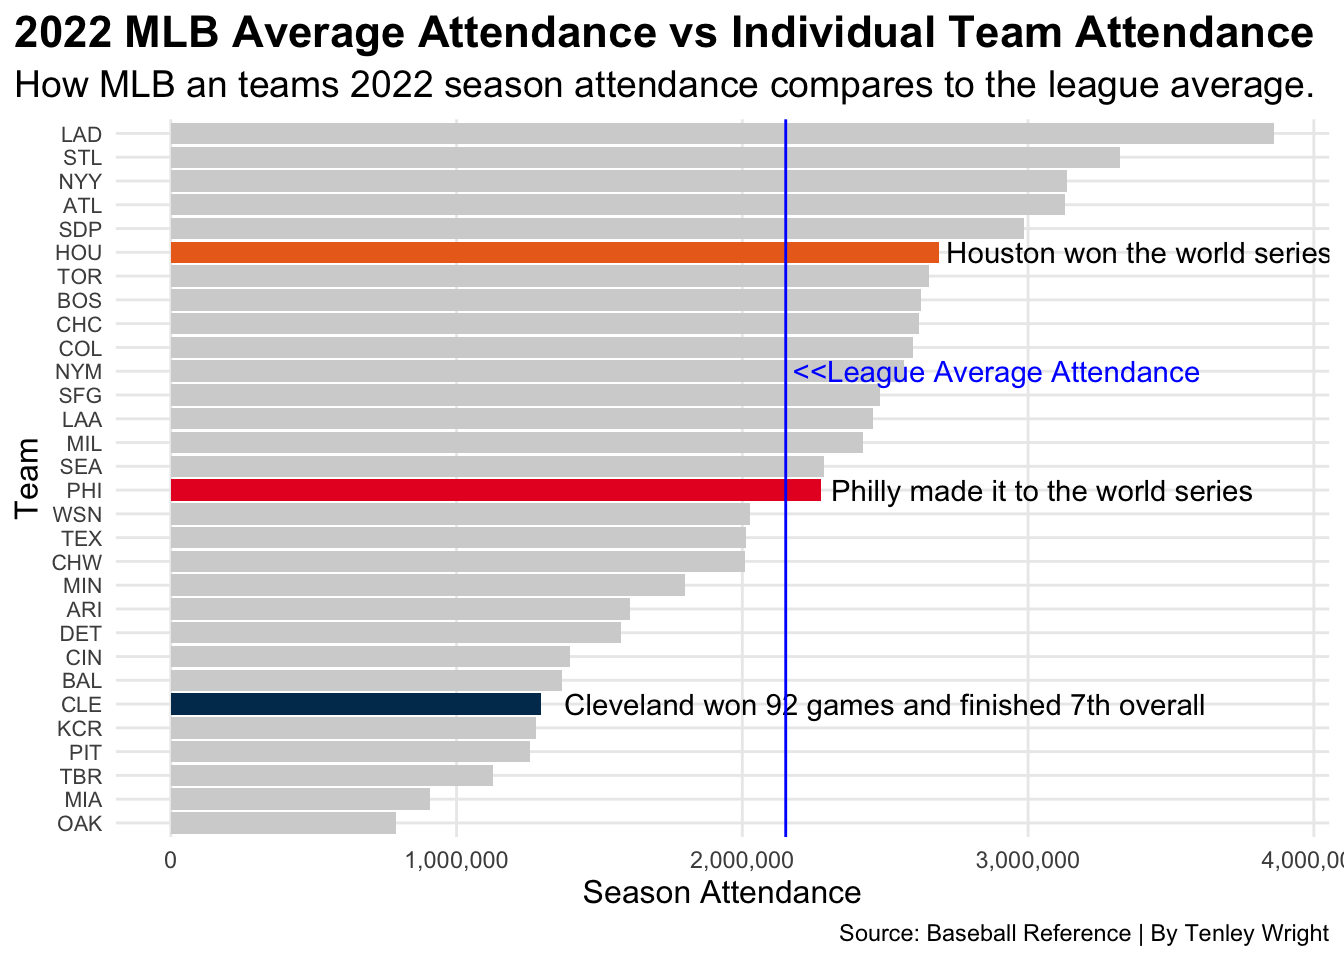
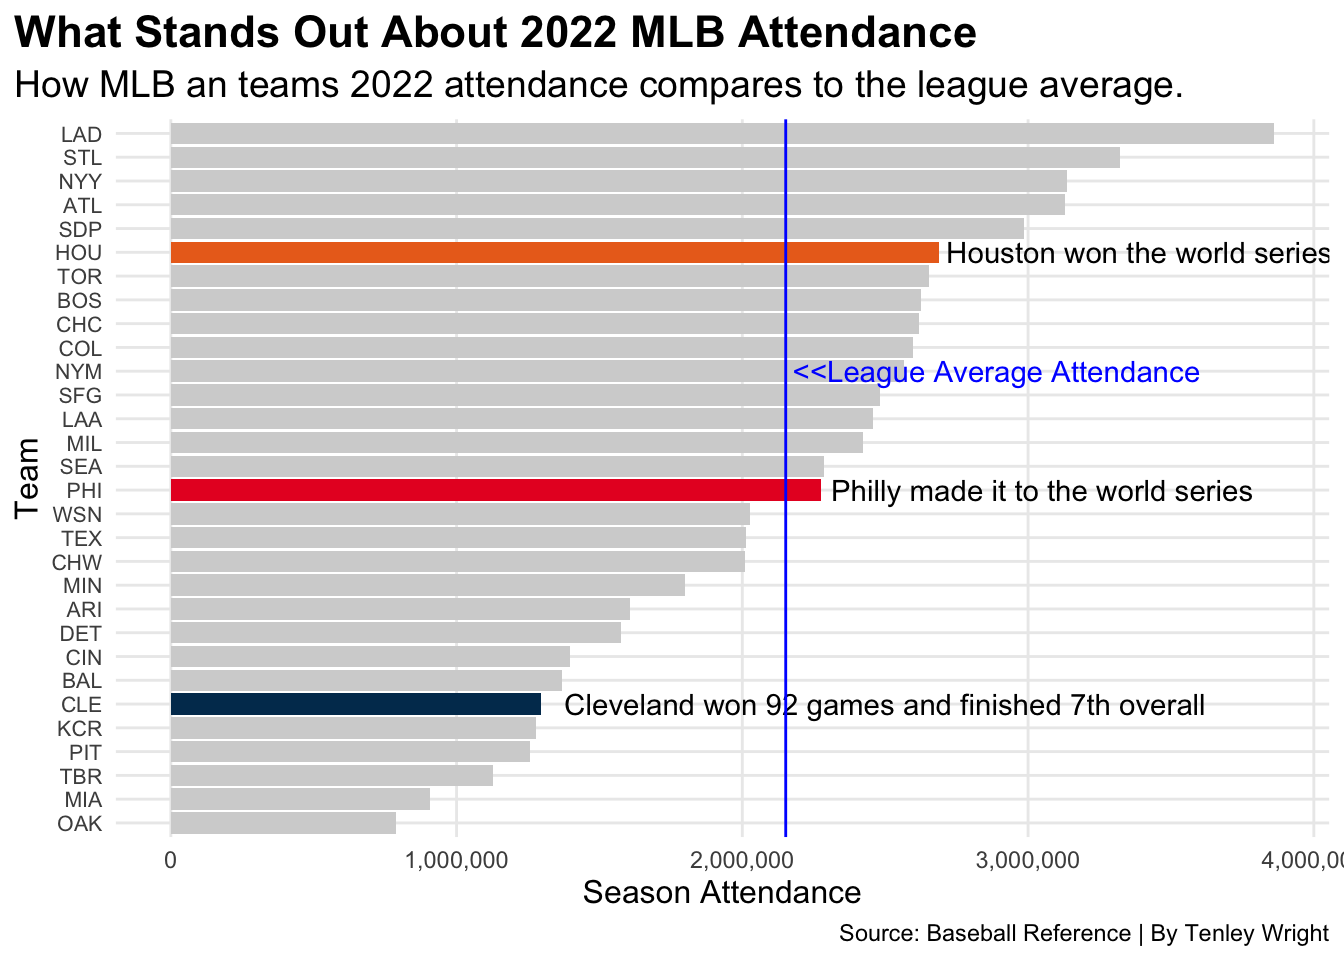
i second guessed myself and ended up being right
but now ive done hours of useless work and had to redo it so here we hare

Changed region(s): [[0.0, 0.0, 1.0, 0.125]]

diff --git a/posts/does-attendance-impact-performace-in-the-mlb/index.html b/posts/does-attendance-impact-performace-in-the-mlb/index.html
@@ -9,7 +9,7 @@
 <meta name="author" content="Tenley Wright">
 <meta name="dcterms.date" content="2023-04-16">
 
-<title>Tenley Wright’s Blog - Does Attendance Impact Team Performance in the MLB?</title>
+<title>Tenley Wright’s Blog - Is There a Relationship Between Attendance and Team Performance in the MLB?</title>
 <style>
 code{white-space: pre-wrap;}
 span.smallcaps{font-variant: small-caps;}
@@ -173,7 +173,7 @@ code span.wa { color: #60a0b0; font-weight: bold; font-style: italic; } /* Warni
 <header id="title-block-header" class="quarto-title-block default page-columns page-full">
   <div class="quarto-title-banner page-columns page-full">
     <div class="quarto-title column-body">
-      <h1 class="title">Does Attendance Impact Team Performance in the MLB?</h1>
+      <h1 class="title">Is There a Relationship Between Attendance and Team Performance in the MLB?</h1>
                                 <div class="quarto-categories">
                 <div class="quarto-category">Baseball</div>
                 <div class="quarto-category">Code</div>
@@ -218,7 +218,7 @@ code span.wa { color: #60a0b0; font-weight: bold; font-style: italic; } /* Warni
 <p><em>And then, finally, there’s the Oakland Athletics.</em></p>
 <p>Moneyball is one of my favorite movies, and one of the themes it explores is the key components to drawing fans to games, and how to keep them coming back for more. It’s been over twenty years since Billy Beane and his front office staff tried to dig their way out of the issues in Oakland and yet somehow, after all these years, the A’s still remain underneath that same 50 feet of crap.</p>
 <p>If you want to make a case for the A’s you could argue that perhaps it’s the fact that their comically oversized coliseum sits in one of the largest metropolitan areas in the country, yet one that is home to two baseball teams, making it the lowest population supporting two teams. However, even if you split the entire Bay Area into two halves, you still end up with a larger market than Pittsburgh, Tampa and KC.</p>
-<p>So, is there a connection between ballpark attendance and a team’s performance? Does a winning team draw larger crowds? Can a packed house fuel a successful season? To answer that, we’ll first need to explore how each team compares to the league average attendance, as well as each other.</p>
+<p>So, is there a connection between ballpark attendance and a team’s performance? To answer that, we’ll first need to explore how each team compares to the league average attendance, as well as each other.</p>
 <div class="cell">
 <details>
 <summary>Code</summary>
@@ -295,8 +295,8 @@ code span.wa { color: #60a0b0; font-weight: bold; font-style: italic; } /* Warni
 <span id="cb1-71"><a href="#cb1-71" aria-hidden="true" tabindex="-1"></a>  <span class="fu">labs</span>(</span>
 <span id="cb1-72"><a href="#cb1-72" aria-hidden="true" tabindex="-1"></a>    <span class="at">x=</span><span class="st">"Team"</span>, </span>
 <span id="cb1-73"><a href="#cb1-73" aria-hidden="true" tabindex="-1"></a>    <span class="at">y=</span><span class="st">"Season Attendance"</span>, </span>
-<span id="cb1-74"><a href="#cb1-74" aria-hidden="true" tabindex="-1"></a>    <span class="at">title=</span><span class="st">"2022 MLB Average Attendance vs Individual Team Attendance"</span>, </span>
-<span id="cb1-75"><a href="#cb1-75" aria-hidden="true" tabindex="-1"></a>    <span class="at">subtitle=</span><span class="st">"How MLB an teams 2022 season attendance compares to the league average."</span>, </span>
+<span id="cb1-74"><a href="#cb1-74" aria-hidden="true" tabindex="-1"></a>    <span class="at">title=</span><span class="st">"What Stands Out About 2022 MLB Attendance"</span>, </span>
+<span id="cb1-75"><a href="#cb1-75" aria-hidden="true" tabindex="-1"></a>    <span class="at">subtitle=</span><span class="st">"How MLB an teams 2022 attendance compares to the league average."</span>, </span>
 <span id="cb1-76"><a href="#cb1-76" aria-hidden="true" tabindex="-1"></a>    <span class="at">caption=</span><span class="st">"Source: Baseball Reference | By Tenley Wright"</span></span>
 <span id="cb1-77"><a href="#cb1-77" aria-hidden="true" tabindex="-1"></a>    ) <span class="sc">+</span></span>
 <span id="cb1-78"><a href="#cb1-78" aria-hidden="true" tabindex="-1"></a>  <span class="fu">theme_minimal</span>() <span class="sc">+</span> </span>
@@ -314,8 +314,6 @@ code span.wa { color: #60a0b0; font-weight: bold; font-style: italic; } /* Warni
 </div>
 </div>
 <p>I wanted to explore the correlation between attendance and wins. It would appear that there are two opposite ends of the spectrum. On one hand, you have the aforementioned A’s, who in 2022 had the lowest attendance in the MLB and finished second to last in the standings. On the other hand, you get the Los Angeles Dodgers, who had the highest attendance and the most wins.</p>
-<p>But what’s between those two extremes?</p>
-<p>What’s interesting, is that with the teams sandwiched in the middle, there is little to no evidence of a correlation between wins and attendance. Sure, Houston had an above average attendance and even went on to win the World Series, but the Phillies were right there with them till the end with a middle of the road season attendance. Even further, Cleveland was sixth to last in attendance, yet finished ranked 7th in 2022 with 92 wins.</p>
 <div class="cell">
 <details>
 <summary>Code</summary>
@@ -389,8 +387,8 @@ code span.wa { color: #60a0b0; font-weight: bold; font-style: italic; } /* Warni
 <span id="cb2-68"><a href="#cb2-68" aria-hidden="true" tabindex="-1"></a><span class="fu">labs</span>(</span>
 <span id="cb2-69"><a href="#cb2-69" aria-hidden="true" tabindex="-1"></a>    <span class="at">x=</span><span class="st">"Season Attendance"</span>, </span>
 <span id="cb2-70"><a href="#cb2-70" aria-hidden="true" tabindex="-1"></a>    <span class="at">y=</span><span class="st">"Wins"</span>, </span>
-<span id="cb2-71"><a href="#cb2-71" aria-hidden="true" tabindex="-1"></a>    <span class="at">title=</span><span class="st">"The impact of Attendance on Performace in MLB"</span>, </span>
-<span id="cb2-72"><a href="#cb2-72" aria-hidden="true" tabindex="-1"></a>    <span class="at">subtitle=</span><span class="st">"Attendance had little effect on a teams ability to win games."</span>, </span>
+<span id="cb2-71"><a href="#cb2-71" aria-hidden="true" tabindex="-1"></a>    <span class="at">title=</span><span class="st">"Fans Love to Watch a Winning Team"</span>, </span>
+<span id="cb2-72"><a href="#cb2-72" aria-hidden="true" tabindex="-1"></a>    <span class="at">subtitle=</span><span class="st">"Wins account for a 46 percent change in attendance and vice versa."</span>, </span>
 <span id="cb2-73"><a href="#cb2-73" aria-hidden="true" tabindex="-1"></a>    <span class="at">caption=</span><span class="st">"Source: Baseball Reference | By Tenley Wright"</span></span>
 <span id="cb2-74"><a href="#cb2-74" aria-hidden="true" tabindex="-1"></a>    ) <span class="sc">+</span></span>
 <span id="cb2-75"><a href="#cb2-75" aria-hidden="true" tabindex="-1"></a>  <span class="fu">theme_minimal</span>() <span class="sc">+</span> </span>
@@ -406,6 +404,7 @@ code span.wa { color: #60a0b0; font-weight: bold; font-style: italic; } /* Warni
 <p><img src="index_files/figure-html/unnamed-chunk-2-1.png" class="img-fluid" width="672"></p>
 </div>
 </div>
+<p>It’s important to note, though, that correlation does not equal causation. Just because there is a positive correlation between wins and attendance, it doesn’t necessarily mean that an increased attendance will automatically lead to more victories and vice versa. The Rays and Guardians are prime examples of this.</p>
 <p>There are a number of factors that drive attendance at MLB ballparks. And the same is true for winning. I took my question one step further and tried to find a common theme between the teams that had high attendance and a high win percentage. Same for the teams on the low side of things. That common theme? Payroll.</p>
 <div class="cell">
 <details>
@@ -501,13 +500,13 @@ code span.wa { color: #60a0b0; font-weight: bold; font-style: italic; } /* Warni
 <span id="cb3-89"><a href="#cb3-89" aria-hidden="true" tabindex="-1"></a>  <span class="fu">labs</span>(</span>
 <span id="cb3-90"><a href="#cb3-90" aria-hidden="true" tabindex="-1"></a>    <span class="at">x=</span><span class="st">"Season Attendance"</span>, </span>
 <span id="cb3-91"><a href="#cb3-91" aria-hidden="true" tabindex="-1"></a>    <span class="at">y=</span><span class="st">"Wins"</span>, </span>
-<span id="cb3-92"><a href="#cb3-92" aria-hidden="true" tabindex="-1"></a>    <span class="at">title=</span><span class="st">"The impact of Payroll on Attendance and Performance"</span>, </span>
+<span id="cb3-92"><a href="#cb3-92" aria-hidden="true" tabindex="-1"></a>    <span class="at">title=</span><span class="st">"Payroll has a Positive Impact of Attendance and Performance"</span>, </span>
 <span id="cb3-93"><a href="#cb3-93" aria-hidden="true" tabindex="-1"></a>    <span class="at">subtitle=</span><span class="st">"In 2022, teams with a higher payroll were winning more games and drawing more fans to their ballpark."</span>, </span>
 <span id="cb3-94"><a href="#cb3-94" aria-hidden="true" tabindex="-1"></a>    <span class="at">caption=</span><span class="st">"Source: Baseball Reference | By Tenley Wright"</span></span>
 <span id="cb3-95"><a href="#cb3-95" aria-hidden="true" tabindex="-1"></a>    ) <span class="sc">+</span></span>
 <span id="cb3-96"><a href="#cb3-96" aria-hidden="true" tabindex="-1"></a>  <span class="fu">theme_minimal</span>() <span class="sc">+</span> </span>
 <span id="cb3-97"><a href="#cb3-97" aria-hidden="true" tabindex="-1"></a>  <span class="fu">theme</span>(</span>
-<span id="cb3-98"><a href="#cb3-98" aria-hidden="true" tabindex="-1"></a>    <span class="at">plot.title =</span> <span class="fu">element_text</span>(<span class="at">size =</span> <span class="dv">19</span>, <span class="at">face =</span> <span class="st">"bold"</span>),</span>
+<span id="cb3-98"><a href="#cb3-98" aria-hidden="true" tabindex="-1"></a>    <span class="at">plot.title =</span> <span class="fu">element_text</span>(<span class="at">size =</span> <span class="dv">17</span>, <span class="at">face =</span> <span class="st">"bold"</span>),</span>
 <span id="cb3-99"><a href="#cb3-99" aria-hidden="true" tabindex="-1"></a>    <span class="at">axis.title =</span> <span class="fu">element_text</span>(<span class="at">size =</span> <span class="dv">14</span>), </span>
 <span id="cb3-100"><a href="#cb3-100" aria-hidden="true" tabindex="-1"></a>    <span class="at">plot.subtitle =</span> <span class="fu">element_text</span>(<span class="at">size=</span><span class="dv">11</span>), </span>
 <span id="cb3-101"><a href="#cb3-101" aria-hidden="true" tabindex="-1"></a>    <span class="at">panel.grid.minor =</span> <span class="fu">element_blank</span>(),</span>
@@ -519,8 +518,7 @@ code span.wa { color: #60a0b0; font-weight: bold; font-style: italic; } /* Warni
 <p><img src="index_files/figure-html/unnamed-chunk-3-1.png" class="img-fluid" width="672"></p>
 </div>
 </div>
-<p>Billy Beane may have known how to find the best bargain deal on a shortstop, but when it comes down to it, the big bucks are winning on both sides of the fence.</p>
-<p>It’s important to note, though, that correlation does not always equal causation. Just because there is a positive correlation between payroll, wins and attendance, it doesn’t necessarily mean that an increased payroll will automatically lead to more victories.</p>
+<p>Billy Beane may have known how to find the best bargain deal on a shortstop, but when it comes down to it, the big bucks are winning on both sides of the fence. Small market teams like Oakland have and will continue to remain small market teams because they can’t afford to improve on things like player development systems, management and coaching staff. This, in turn affects their attendance.</p>
 
 
 

diff --git a/index.html b/index.html
@@ -171,14 +171,14 @@ ul.task-list li input[type="checkbox"] {
 
 <div class="quarto-listing quarto-listing-container-default" id="listing-listing">
 <div class="list quarto-listing-default">
-<div class="quarto-post image-right" data-index="0" data-categories="Baseball,Code,Attendance" data-listing-date-sort="1681621200000" data-listing-file-modified-sort="1681674157006" data-listing-reading-time-sort="9.275">
+<div class="quarto-post image-right" data-index="0" data-categories="Baseball,Code,Attendance" data-listing-date-sort="1681621200000" data-listing-file-modified-sort="1681686309906" data-listing-reading-time-sort="9.045">
 <div class="thumbnail">
 <p><a href="./posts/does-attendance-impact-performace-in-the-mlb/index.html"> <img src="./posts/does-attendance-impact-performace-in-the-mlb/image.png" class="thumnail-image"> </a></p>
 </div>
 <div class="body">
 <a href="./posts/does-attendance-impact-performace-in-the-mlb/index.html">
 <h3 class="no-anchor listing-title">
-Does Attendance Impact Team Performance in the MLB?
+Is There a Relationship Between Attendance and Team Performance in the MLB?
 </h3>
 <div class="listing-subtitle">
 
